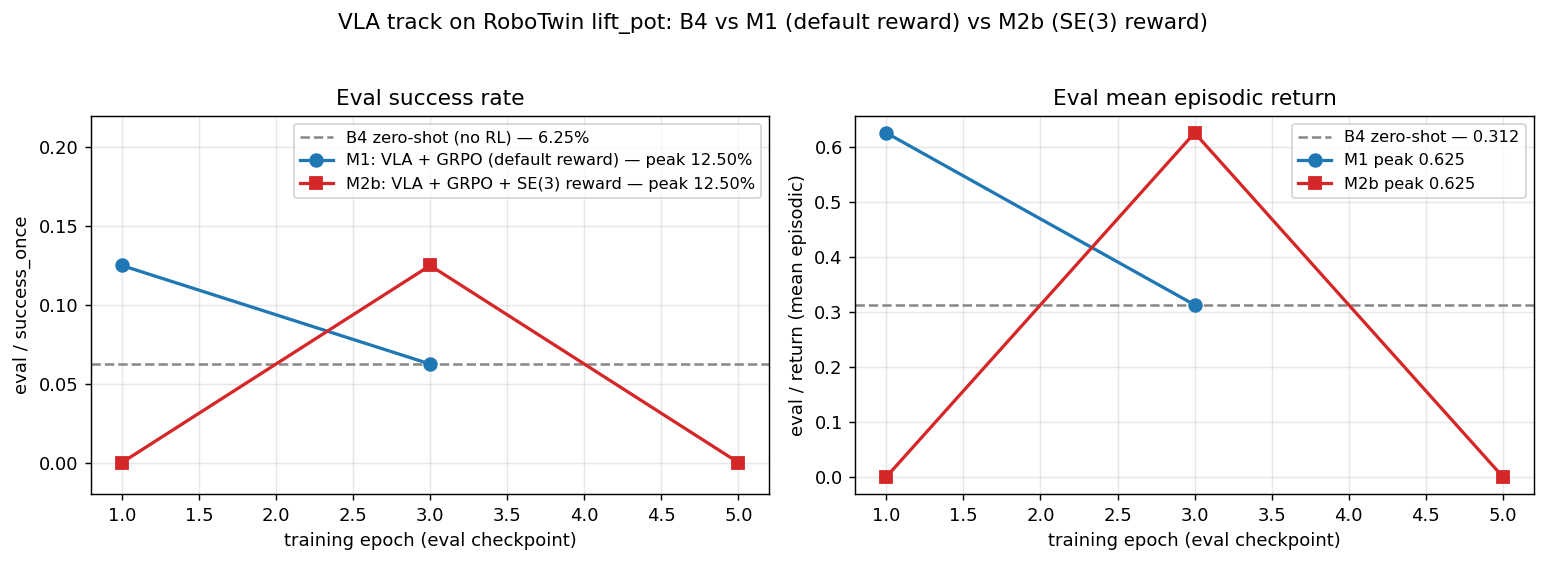
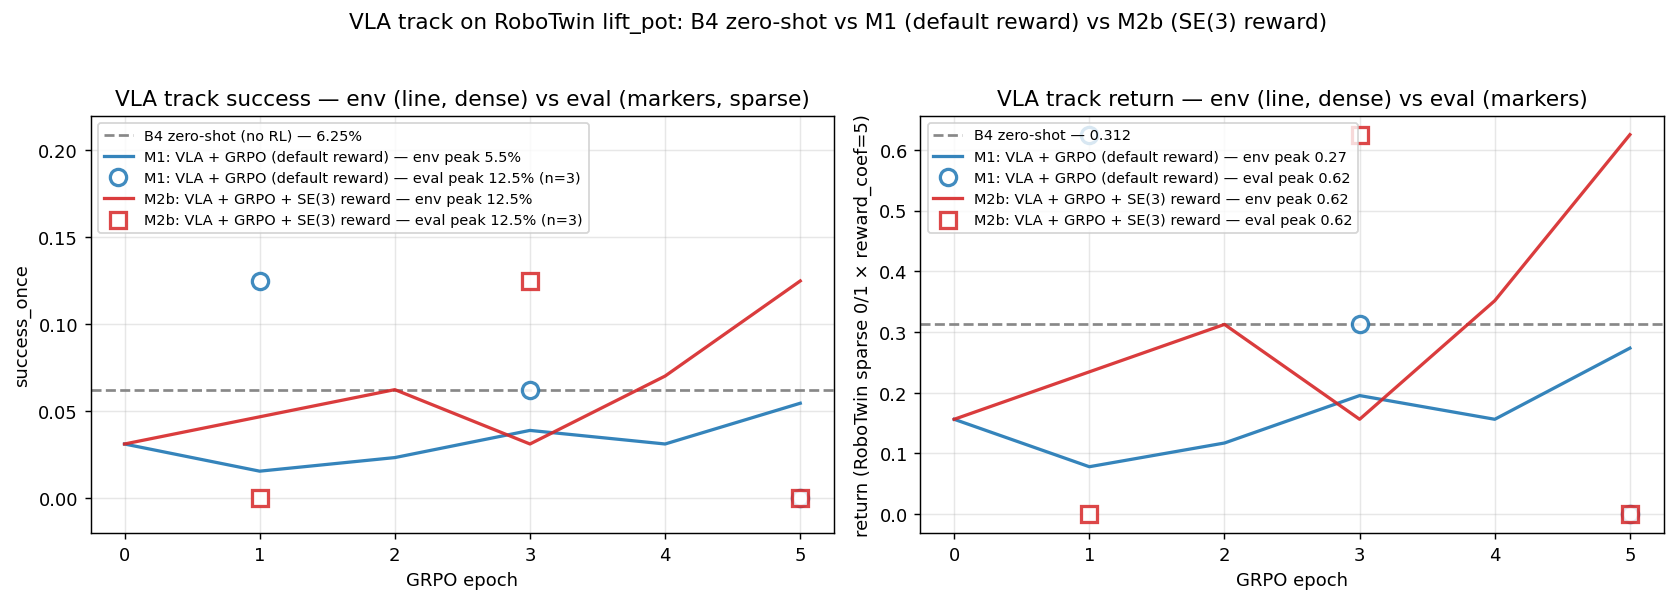
docs(rob831): clean up figures — drop bugged eval=1.0 points, rebuild VLA plot
- plot_all_tracks.py: drop the bugged RoboEval eval=1.0 spikes silently
  (instead of marking them with "x"). They're known instrumentation noise
  per the B1/B2/B3 doc; no point cluttering the figure.
- plot_vla_track.py: rebuilt to match plot_all_tracks style — dense
  env/success_once as lines, sparse eval/success_once as hollow markers.
  Previous version only showed 3 eval points per run, which obscured that
  M2b's env/success_once actually hits 12.5% (matching its eval peak)
  while M1's env/success_once only peaks at 5.5%. Same treatment for
  env/return vs eval/return.

diff --git a/scripts/plot_vla_track.py b/scripts/plot_vla_track.py
@@ -1,11 +1,17 @@
 """Plot the VLA-track comparison: B4 (zero-shot) vs M1 (default reward) vs
-M2b (SE(3) reward), both eval/success_once and eval/return on two subplots.
+M2b (SE(3) reward).
+
+Uses dense training-time signals (env/success_once, env/return) with sparse
+eval signals (eval/success_once, eval/return) overlaid as hollow markers.
+This matches the plot_all_tracks.py style and exposes that M1's training-
+rollout success peaks at only 5.5% (vs M2b's 12.5%), so the two runs are
+not actually "tied at 12.5%" on the training signal.
 
 Usage:
-    python scripts/plot_vla_track.py \
-        --b4 /ocean/.../results/b4_vla_zeroshot_3r_40140113/tensorboard \
-        --m1 /ocean/.../results/m1_vla_grpo_40143252/tensorboard \
-        --m2b /ocean/.../results/m2b_vla_grpo_se3_40143253/tensorboard \
+    python scripts/plot_vla_track.py \\
+        --b4 /ocean/.../results/b4_vla_zeroshot_3r_40140113/tensorboard \\
+        --m1 /ocean/.../results/m1_vla_grpo_40141452/tensorboard \\
+        --m2b /ocean/.../results/m2b_vla_grpo_se3_40143253/tensorboard \\
         --out docs/rob831-project/results/vla_track_success.png
 """
 
@@ -27,8 +33,7 @@ def latest_events(tb_dir: str) -> str:
 
 
 def load_scalar(tb_dir: str, tag: str):
-    """Returns (steps, values) for the given tag, or ([], []) if absent."""
-    acc = EventAccumulator(latest_events(tb_dir))
+    acc = EventAccumulator(latest_events(tb_dir), size_guidance={"scalars": 0})
     acc.Reload()
     if tag not in acc.Tags().get("scalars", []):
         return [], []
@@ -38,62 +43,87 @@ def load_scalar(tb_dir: str, tag: str):
 
 def main() -> None:
     parser = argparse.ArgumentParser()
-    parser.add_argument("--b4", required=True, help="B4 tensorboard dir")
-    parser.add_argument("--m1", required=True, help="M1 tensorboard dir")
-    parser.add_argument("--m2b", required=True, help="M2b tensorboard dir")
-    parser.add_argument("--out", required=True, help="output PNG path")
+    parser.add_argument("--b4", required=True)
+    parser.add_argument("--m1", required=True)
+    parser.add_argument("--m2b", required=True)
+    parser.add_argument("--out", required=True)
     args = parser.parse_args()
 
-    fig, axes = plt.subplots(1, 2, figsize=(12, 4.2))
+    fig, axes = plt.subplots(1, 2, figsize=(13, 4.5))
 
-    # --- Eval success_once ---
+    runs = [
+        ("M1: VLA + GRPO (default reward)", args.m1, "#1f77b4", "o"),
+        ("M2b: VLA + GRPO + SE(3) reward", args.m2b, "#d62728", "s"),
+    ]
+
+    # --- Panel 1: success_once (env dense line + eval markers) ---
     ax = axes[0]
     b4_steps, b4_succ = load_scalar(args.b4, "eval/success_once")
-    m1_steps, m1_succ = load_scalar(args.m1, "eval/success_once")
-    m2b_steps, m2b_succ = load_scalar(args.m2b, "eval/success_once")
-
-    # B4 as horizontal line (only one eval snapshot, no training dynamics).
     if b4_succ:
-        ax.axhline(b4_succ[-1], color="#888888", linestyle="--", linewidth=1.4,
-                   label=f"B4 zero-shot (no RL) — {b4_succ[-1] * 100:.2f}%")
-    if m1_steps:
-        ax.plot(m1_steps, m1_succ, "o-", color="#1f77b4", linewidth=1.8,
-                markersize=7, label=f"M1: VLA + GRPO (default reward) — peak {max(m1_succ) * 100:.2f}%")
-    if m2b_steps:
-        ax.plot(m2b_steps, m2b_succ, "s-", color="#d62728", linewidth=1.8,
-                markersize=7, label=f"M2b: VLA + GRPO + SE(3) reward — peak {max(m2b_succ) * 100:.2f}%")
+        ax.axhline(
+            b4_succ[-1], color="#888888", linestyle="--", linewidth=1.5,
+            label=f"B4 zero-shot (no RL) — {b4_succ[-1] * 100:.2f}%",
+        )
 
-    ax.set_xlabel("training epoch (eval checkpoint)")
-    ax.set_ylabel("eval / success_once")
-    ax.set_title("Eval success rate")
+    for name, tb_dir, color, marker in runs:
+        env_steps, env_succ = load_scalar(tb_dir, "env/success_once")
+        eval_steps, eval_succ = load_scalar(tb_dir, "eval/success_once")
+        if env_steps:
+            ax.plot(
+                env_steps, env_succ, "-", color=color, linewidth=1.8,
+                alpha=0.9,
+                label=f"{name} — env peak {max(env_succ) * 100:.1f}%",
+            )
+        if eval_steps:
+            ax.plot(
+                eval_steps, eval_succ, marker, color=color,
+                markerfacecolor="white", markeredgewidth=1.8,
+                markersize=9, alpha=0.85,
+                label=f"{name} — eval peak {max(eval_succ) * 100:.1f}% (n={len(eval_succ)})",
+            )
+
+    ax.set_xlabel("GRPO epoch")
+    ax.set_ylabel("success_once")
+    ax.set_title("VLA track success — env (line, dense) vs eval (markers, sparse)")
     ax.set_ylim(-0.02, 0.22)
     ax.grid(alpha=0.3)
-    ax.legend(fontsize=9, loc="upper right")
+    ax.legend(fontsize=8, loc="upper left")
 
-    # --- Eval return ---
+    # --- Panel 2: return (env dense line + eval markers) ---
     ax = axes[1]
     b4_steps, b4_ret = load_scalar(args.b4, "eval/return")
-    m1_steps, m1_ret = load_scalar(args.m1, "eval/return")
-    m2b_steps, m2b_ret = load_scalar(args.m2b, "eval/return")
-
     if b4_ret:
-        ax.axhline(b4_ret[-1], color="#888888", linestyle="--", linewidth=1.4,
-                   label=f"B4 zero-shot — {b4_ret[-1]:.3f}")
-    if m1_steps:
-        ax.plot(m1_steps, m1_ret, "o-", color="#1f77b4", linewidth=1.8,
-                markersize=7, label=f"M1 peak {max(m1_ret):.3f}")
-    if m2b_steps:
-        ax.plot(m2b_steps, m2b_ret, "s-", color="#d62728", linewidth=1.8,
-                markersize=7, label=f"M2b peak {max(m2b_ret):.3f}")
+        ax.axhline(
+            b4_ret[-1], color="#888888", linestyle="--", linewidth=1.5,
+            label=f"B4 zero-shot — {b4_ret[-1]:.3f}",
+        )
 
-    ax.set_xlabel("training epoch (eval checkpoint)")
-    ax.set_ylabel("eval / return (mean episodic)")
-    ax.set_title("Eval mean episodic return")
+    for name, tb_dir, color, marker in runs:
+        env_steps, env_ret = load_scalar(tb_dir, "env/return")
+        eval_steps, eval_ret = load_scalar(tb_dir, "eval/return")
+        if env_steps:
+            ax.plot(
+                env_steps, env_ret, "-", color=color, linewidth=1.8, alpha=0.9,
+                label=f"{name} — env peak {max(env_ret):.2f}",
+            )
+        if eval_steps:
+            ax.plot(
+                eval_steps, eval_ret, marker, color=color,
+                markerfacecolor="white", markeredgewidth=1.8,
+                markersize=9, alpha=0.85,
+                label=f"{name} — eval peak {max(eval_ret):.2f}",
+            )
+
+    ax.set_xlabel("GRPO epoch")
+    ax.set_ylabel("return (RoboTwin sparse 0/1 × reward_coef=5)")
+    ax.set_title("VLA track return — env (line, dense) vs eval (markers)")
     ax.grid(alpha=0.3)
-    ax.legend(fontsize=9, loc="upper right")
+    ax.legend(fontsize=8, loc="upper left")
 
-    fig.suptitle("VLA track on RoboTwin lift_pot: B4 vs M1 (default reward) vs M2b (SE(3) reward)",
-                 fontsize=12, y=1.02)
+    fig.suptitle(
+        "VLA track on RoboTwin lift_pot: B4 zero-shot vs M1 (default reward) vs M2b (SE(3) reward)",
+        fontsize=12, y=1.02,
+    )
     fig.tight_layout()
     fig.savefig(args.out, dpi=130, bbox_inches="tight")
     print(f"saved {args.out}")

diff --git a/scripts/plot_all_tracks.py b/scripts/plot_all_tracks.py
@@ -94,36 +94,24 @@ def main() -> None:
                 label=f"{name} env (peak {max(env_vals) * 100:.1f}%)",
             )
         if eval_vals:
-            # Flag isolated spikes to 1.0 as instrumentation bug (see doc).
-            # A spike = eval_success ≥ 0.99 for B1/B3 on RoboEval with return << 0.
+            # Drop known-bugged eval=1.0 spikes for RoboEval runs (info-dict
+            # key mismatch — see b1_b2_b3_mlp_scratch.md). At those steps,
+            # eval/return is deeply negative, so 16/16 "success" is impossible.
             is_roboeval = "(RoboEval)" in name
             x_norm = normalize_x(eval_steps)
-            clean_x, clean_y, bug_x, bug_y = [], [], [], []
-            for xv, yv in zip(x_norm, eval_vals):
-                if is_roboeval and yv >= 0.99:
-                    bug_x.append(xv); bug_y.append(yv)
-                else:
-                    clean_x.append(xv); clean_y.append(yv)
+            clean_x = [xv for xv, yv in zip(x_norm, eval_vals) if not (is_roboeval and yv >= 0.99)]
+            clean_y = [yv for yv in eval_vals if not (is_roboeval and yv >= 0.99)]
             if clean_x:
                 ax.plot(
                     clean_x, clean_y, "o",
                     color=color, markerfacecolor="white", markeredgewidth=1.5,
                     markersize=6, alpha=0.85,
-                    label=f"{name} eval (peak {max(clean_y) * 100:.1f}%, n={len(eval_vals)})",
-                )
-            if bug_x:
-                ax.plot(
-                    bug_x, bug_y, "x",
-                    color=color, markersize=11, markeredgewidth=2.5,
-                    label=f"{name} eval=1.0 (instrumentation bug, not real success)",
+                    label=f"{name} eval (peak {max(clean_y) * 100:.1f}%, n={len(clean_y)})",
                 )
 
     ax.set_xlabel("training progress (normalized, 0 → 1)")
     ax.set_ylabel("success_once")
-    ax.set_title(
-        "Success — env (line, dense) vs eval (markers, sparse)\n"
-        "✗ = RoboEval eval=1.0 spikes are an info-key bug (return << 0 at same step), not real success"
-    )
+    ax.set_title("Success — env (line, dense) vs eval (markers, sparse)")
     ax.set_ylim(-0.02, 1.05)
     ax.grid(alpha=0.3)
     ax.legend(fontsize=6.5, loc="upper right", ncol=1)
